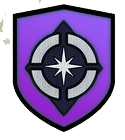
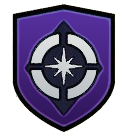
adding guilds of rakenburg

diff --git a/src/pages/placeGroups/index.js b/src/pages/placeGroups/index.js
@@ -84,12 +84,19 @@ class Places extends Component {
   }
 
   getEntriesByCategory(category) {
+    const crests = require.context('img/crests/', true);
+
     return this.state.places.map( place => {
       if ( this.state.combinedPlaces[place].type === category ) {
+        const imageType = (category === "State") ?
+          crests('./' + this.state.combinedPlaces[place].name.replace(/\s/g,"-") + '.png') :
+          images('./' + this.state.combinedPlaces[place].name.replace(/\s/g,"-") + '.png');
+
         return (
           <li className="location">
             <Link to={`/location/${place}`}>
               <img className={`portrait ${ this.checkEmptyEntry(this.state.combinedPlaces[place]) }`} alt="" src={ images('./' + this.state.combinedPlaces[place].name.replace(/\s/g,"-") + '.png') }/>
+              {/*<img className={`portrait ${ this.checkEmptyEntry(this.state.combinedPlaces[place]) } ${ ( category === 'State' ) ? 'noTilt' : '' }`} alt="" src={ imageType }/>*/}
               <p>{this.state.combinedPlaces[place].name}</p>
             </Link>
           </li>

diff --git a/src/styles/places.scss b/src/styles/places.scss
@@ -27,8 +27,12 @@
       left: 1em;
       clip-path: polygon(15% 0%, 100% 0%, 85% 100%, 0% 100%);
 
+      &.noTilt {
+        clip-path: none;
+      }
+
       &.empty {
-        border: 10px solid tomato;
+        // border: 10px solid tomato;
       }
     }
 

diff --git a/src/styles/locationArticle.scss b/src/styles/locationArticle.scss
@@ -45,6 +45,7 @@ article.location {
       img.crest {
         position: absolute;
         width: 33%;
+        max-width: 7.5em;
         right: 5%;
         top: 5%;
       }
